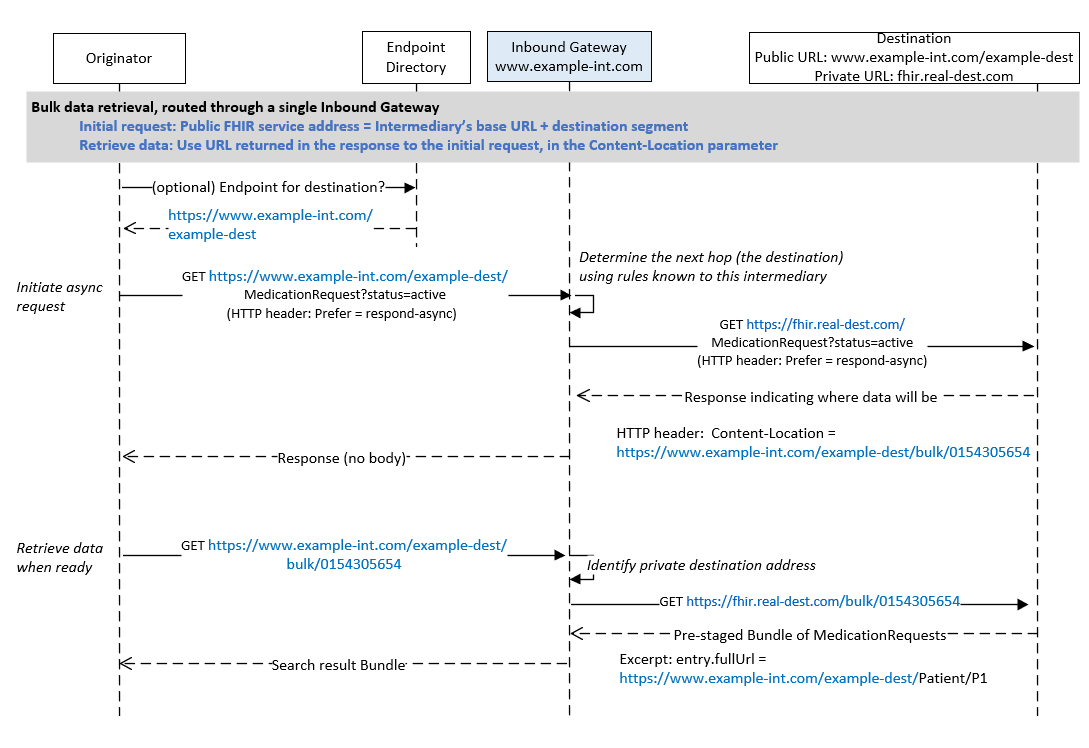
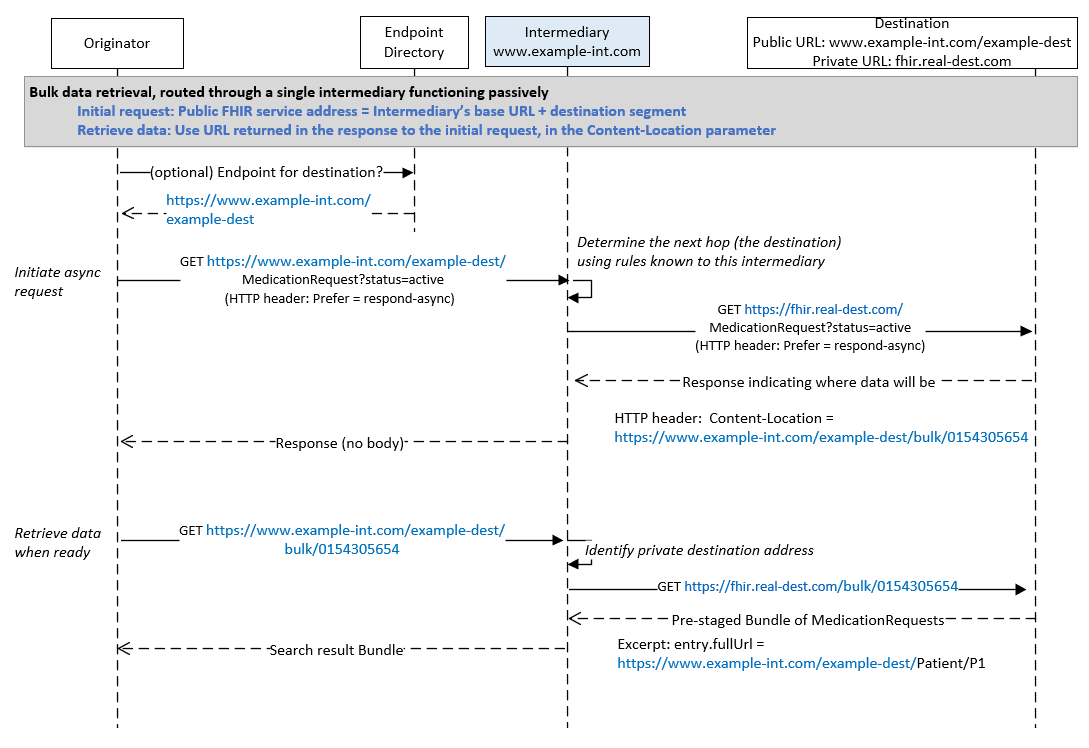
Narrative updates to all pages

Changed region(s): [[0.0, 0.0, 0.9991, 0.615], [0.0, 0.7072, 0.9679, 0.9225], [0.0937, 0.5842, 0.5308, 0.615]]

diff --git a/input/pages/specification.md b/input/pages/specification.md
@@ -4,13 +4,13 @@ This section further describes details of the scenarios introduced in the [Use C
 
 ### Assumptions: Partnership and setup between the originator and intermediaries
 
-This guide assumes that the destination and intermediary participants have established business arrangements and performed configuration activities prior to processing requests. These SHALL include the following, but MAY include the setup of additional value-add services performed by the intermediary participants.
+This guide assumes that the destination and intermediary participants have established business arrangements, if required, and performed configuration activities, if required, prior to processing requests. These SHALL include the following, but MAY include the setup of additional value-add services performed by the intermediary participants.
 
-- The Inbound Gateway intermediary SHALL agree to accept FHIR requests on the destination's behalf
-- The destination and Inbound Gateway intermediary SHALL establish the destination's public FHIR service base URL [(details below)](#destinations-public-fhir-service-base-url) according to their preferences
-- One or more additional delegated intermediaries MAY optionally agree to participate in the routing of requests between the Inbound Gateway intermediary and the destination
+- An intermediary, functioning as an inbound gateway, SHALL agree to accept FHIR requests on the destination's behalf
+- The destination and inbound gateway intermediary SHALL establish the destination's public FHIR service base URL [(details below)](#destinations-public-fhir-service-base-url) according to their preferences
+- One or more additional delegated intermediaries MAY optionally agree to participate in the routing of requests between the inbound gateway intermediary and the destination
 - Each participating intermediary SHALL configure its internal routing mechanisms to enable forwarding of requests to either the destination system or another participating intermediary, as prearranged among the parties. 
-  - Note: This guide does not prescribe particular routing logic or technical approaches to be used by an intermediary
+  - Note: This guide does not prescribe particular routing logic or technical approaches to be used by an intermediary to other intermediaries or the destination
 - One or more public endpoint directories MAY be configured to support searching for the destination and return of the destination's public FHIR service URL 
 
 <p></p>
@@ -21,18 +21,16 @@ This guide assumes that the destination and intermediary participants have estab
 
 To support the routing approaches described in this guide, the destination SHALL have a single, public FHIR service base URL for each FHIR service it makes available. 
 
-The partnering destination and Inbound Gateway intermediary are free to determine the appropriate structure of the public FHIR service base URL to meet their preferences and technical requirements. For example, the URL's hostname may refer to either the destination or the intermediary and path segments may be included to identify the destination, specify the supported FHIR version, etc. 
+The partnering destination and inbound gateway intermediary are free to determine the appropriate structure of the public FHIR service base URL to meet their preferences and technical requirements. For example, the URL's hostname may refer to either the destination or the intermediary and path segments may be included to identify the destination, specify the supported FHIR version, etc. In addition, the destination SHALL  [reference its public URL in returned FHIR resources](#references-to-the-service-base-url-in-returned-fhir-resources).
 
-<blockquote class="note-to-balloters">
-<p>
-Feedback requested: Is it helpful to include the following example approaches? Or would it be better to omit them--given that the guide does not prescribe a particular URL structure?</p>
-</blockquote>
+<p></p>
+
 
 Example approaches:
 
-- *Intermediary's base URL followed by a path indicating the destination,* such as `fhir.example-intermediary.com/example-destination`. In this method, the destination's public FHIR service URL consists of a base URL reflecting the Inbound Gateway Intermediary's identity followed by a path segment following the base that reflects the destination's identity. The intermediary may then base routing on the path segment that indicates the destination.
-- *Base URL that reflects the destination's identity,* such as`fhir.example-destination.com`. In this method, the destination uses a public FHIR service base URL that reflects its own identity and, in turn, hides participation of the Inbound Gateway Intermediary it employs. The intermediary bases routing on the network IP address at which it receives the request (the IP to which the public URL's DNS record is mapped).
-- *Subdomain of intermediary's URL that identifies the destination,* such as `example-destination.example-intermediary.com`. In this method, the destination is represented using a subdomain of the Inbound Gateway Intermediary's URL. The intermediary bases routing on the network IP address to which the subdomain's DNS record is mapped.
+- *Intermediary's base URL followed by a path indicating the destination,* such as `fhir.example-intermediary.com/example-destination`. In this method, the destination's public FHIR service URL consists of a base URL reflecting the inbound gateway Intermediary's identity followed by a path segment following the base that reflects the destination's identity. The intermediary may then base routing on the path segment that indicates the destination.
+- *Base URL that reflects the destination's identity,* such as`fhir.example-destination.com`. In this method, the destination uses a public FHIR service base URL that reflects its own identity and, in turn, hides participation of the inbound gateway Intermediary it employs. The intermediary bases routing on the network IP address at which it receives the request (the IP to which the public URL's DNS record is mapped).
+- *Subdomain of intermediary's URL that identifies the destination,* such as `example-destination.example-intermediary.com`. In this method, the destination is represented using a subdomain of the inbound gateway Intermediary's URL. The intermediary bases routing on the network IP address to which the subdomain's DNS record is mapped.
 
 This guide does not prescribe a particular URL structure to be used; however, it SHALL be a valid [FHIR service base URL](https://www.hl7.org/fhir/http.html#root) that originators can use without knowledge of its individual components--as they do any other FHIR service URL
 
@@ -51,7 +49,7 @@ This implementation guide does not support URL rewriting, based on stakeholder i
 
 #### FHIR service base URLs used in routing between intermediaries and to the actual destination server
 
-The destination and each delegated intermediary (participating in exchange hops following the Inbound Gateway intermediary) defines the URL at which it accepts requests intended for the destination.  Each party is free to determine the appropriate structure of the URL to meet its preferences and technical requirements, as described in the preceding section.
+The destination and each delegated intermediary (participating in exchange hops following the inbound gateway intermediary) defines the URL at which it accepts requests intended for the destination.  Each party is free to determine the appropriate structure of the URL to meet its preferences and technical requirements, as described in the preceding section.
 
 This guide does not prescribe a particular URL structure to be used; however, it SHALL: 
 
@@ -74,7 +72,7 @@ For example, the Bundle.entry.fullUrl element for a resource on the destination'
 
 #### The originating client negotiates trust with the destination
 
-In this exchange model, trust is negotiated solely between the originator and destination. It is the destination which makes the decision as to whether it trusts the originator or not; any intermediaries involved in the exchange play a passive, "pass through" role in the process. 
+In this exchange model, trust has been established or is negotiated solely between the originator and destination. It is the destination which makes the decision as to whether it trusts the originator or not; any intermediaries involved in the exchange play a passive, "pass through" role in the process. 
 
 Required behavior:
 
@@ -129,7 +127,7 @@ Based on the rules and constraints described above, the following underscores sc
 
 <p></p>
 
-#### Scenario: Request routed through a single Inbound Gateway intermediary 
+#### Scenario: Request routed through a single inbound gateway intermediary 
 
 This scenario supports a situation where the destination delegates the responsibility of securing a public endpoint--and potentially performing other functions such as registering clients--to an intermediary. A single intermediary participates in this exchange, forwarding requests directly from the originator to the destination.
 
@@ -143,7 +141,7 @@ Before the exchange, the originator system obtains the destination's public FHIR
 
 The originator system then initiates a RESTful exchange (for example, a GET method to retrieve a FHIR resource) that is transmitted to the destination's public FHIR service address. 
 
-**Step 3. The exchange is received by the Inbound Gateway intermediary**
+**Step 3. The exchange is received by the inbound gateway intermediary**
 
 The intermediary receives the request on behalf of the destination. The sections below describe multiple approaches for constructing the destination's public FHIR service address, but in all cases its URL resolves to a destination-specific location at the intermediary.
 
@@ -169,11 +167,6 @@ The originator accepts the response. If it wishes to submit a follow-on request 
 
 <p></p>
 
-<blockquote class="note-to-balloters">
-<p>
-DRAFT IG NOTE: Would it be helpful to include multiple examples using different URL approaches? Or is it better to include just one--given that the guide does not prescribe a particular URL structure?
-</p>
-</blockquote>
 
 
 **Exchange flow**
@@ -187,9 +180,9 @@ DRAFT IG NOTE: Would it be helpful to include multiple examples using different 
 </div>
 <p></p>
 
-#### Scenario: Destination uses an Inbound Gateway Intermediary that in turn routes through another intermediary to deliver the exchange
+#### Scenario: Destination uses an inbound gateway Intermediary that in turn routes through another intermediary to deliver the exchange
 
-This scenario supports a situation where one or more additional "delegated" intermediaries--beyond the Inbound Gateway with with the originator directly interacts--is used to deliver a request to its ultimate destination. 
+This scenario supports a situation where one or more additional "delegated" intermediaries--beyond the inbound gateway with with the originator directly interacts--is used to deliver a request to its ultimate destination. 
 
 Below is the main flow of this scenario.
 
@@ -197,11 +190,11 @@ Below is the main flow of this scenario.
 
 **Step 2. Originator initiates a RESTful interaction using the destination's public FHIR service address**
 
-**Step 3. The exchange is received by the Inbound Gateway intermediary**
+**Step 3. The exchange is received by the inbound gateway intermediary**
 
-The initial steps in this scenario are the same as in the one-intermediary scenario above--the originator submits its request to the public FHIR service address for the destination, which is received by the Inbound Gateway intermediary to be routed onward.
+The initial steps in this scenario are the same as in the one-intermediary scenario above--the originator submits its request to the public FHIR service address for the destination, which is received by the inbound gateway intermediary to be routed onward.
 
-**Step 4. The Inbound Gateway intermediary routes the exchange to a second intermediary**
+**Step 4. The inbound gateway intermediary routes the exchange to a second intermediary**
 
 The intermediary forwards the exchange to a second "delegated" intermediary who will forward it on toward the destination organization. 
 
@@ -211,7 +204,7 @@ This determination is based on arrangements previously established between this 
 
 **Step 5. The second intermediary routes the exchange to the destination endpoint**
 
-Based on routing metadata conveyed to it in the URL path or via HTTP headers, the second intermediary determines where to route the exchange based on its arrangement with the Inbound Gateway intermediary and/or the destination owner. 
+Based on routing metadata conveyed to it in the URL path or via HTTP headers, the second intermediary determines where to route the exchange based on its arrangement with the inbound gateway intermediary and/or the destination owner. 
 
 **Step 6. The destination processes the request and returns its response to the intermediary**
 
@@ -219,11 +212,11 @@ The destination processes the request and synchronously returns its response.
 
 Note that any references to the destination's FHIR service in resources that are returned by the destination--for example, in a search result Bundle's fullUrl element--SHALL be populated by the destination server to match the public FHIR service address used by the originator.
 
-**Step 7. The second intermediary passes through the response to the Inbound Gateway intermediary**
+**Step 7. The second intermediary passes through the response to the inbound gateway intermediary**
 
 The intermediary, which is holding a synchronous connection with the originator, passes through the response
 
-**Step 8. The Inbound Gateway intermediary passes through the response to the originator**
+**Step 8. The inbound gateway intermediary passes through the response to the originator**
 
 The intermediary, which is holding a synchronous connection with the originator, passes through the response. 
 
@@ -264,9 +257,9 @@ DRAFT IG NOTE: Would it be helpful to include multiple examples using different 
 
 <p></p>
 
-#### Scenario: Originator initiates an asynchronous retrieval of data from a Destination that uses an Inbound Gateway Intermediary
+#### Scenario: Originator initiates an asynchronous retrieval of data from a Destination that uses an inbound gateway Intermediary
 
-In this scenario, the originator uses the [FHIR Asynchronous Pattern](https://www.hl7.org/fhir/async.html) to retrieve data from a destination that uses an Inbound Gateway intermediary as described above. 
+In this scenario, the originator uses the [FHIR Asynchronous Pattern](https://www.hl7.org/fhir/async.html) to retrieve data from a destination that uses an inbound gateway intermediary as described above. 
 
 Below is the main flow of this scenario.
 
@@ -276,7 +269,7 @@ Below is the main flow of this scenario.
 
 In this scenario, the originator populates the `Prefer` HTTP header with `respond-async` to notify the destination that it want to obtain the response data asynchronously.
 
-**Step 3. The exchange is received by the Inbound Gateway intermediary**
+**Step 3. The exchange is received by the inbound gateway intermediary**
 
 **Step 4. The intermediary routes the exchange to the destination**
 

diff --git a/input/pages/use-cases.md b/input/pages/use-cases.md
@@ -1,15 +1,18 @@
-This guide supports scenarios where intermediaries take part in RESTful FHIR exchanges between an initiating system (the "originator") and the desired endpoint system (the "destination").  It focuses on scenarios where:
+This guide supports scenarios where intermediaries take part in RESTful FHIR exchanges between an initiating system (the "originator") and the desired endpoint system (the "destination").  
+
+Potential applications of this initial IG include use by implementers of payer/provider use cases such as Da Vinci value-based care use case in which intermediaries may bridge connectivity between actors. . Other HL7 accelerators (CARIN, Gravity, etc.) are developing disparate actor use cases in which intermediaries may be involved.
+
+Specifically, it focuses on scenarios where:
 
 - the originator directs the exchange to the destination's public FHIR service base URL, for example as retrieved from an endpoint directory
 
-  
 - but the destination has an arrangement where an intermediary accepts the request on the destination's behalf and then routes it to the destination's system -- either directly or through another intermediary.
 
 This page defines the roles that intermediaries play in the scenarios addressed in this guide and then describes those scenarios more fully.
 
 <p></p>
 
-### Intermediary Roles
+### Intermediary Capability Roles
 
 <table class="grid">
   <thead>
@@ -27,7 +30,7 @@ This page defines the roles that intermediaries play in the scenarios addressed 
     <tr>
       <td>Inbound  Gateway</td>
       <td>This intermediary role receives requests intended for the destination and  forwards them to the destination system or another intermediary</td>
-      <td>The Inbound Gateway assumes the responsibility of establishing transport security with submitters to the public URL and potentially performing other work on behalf of the destination</td>
+      <td>The inbound gateway assumes the responsibility of establishing transport security with submitters to the public URL and potentially performing other work on behalf of the destination such as cloud-scale infrastructure, technical support, business/operational onboarding and support, actor agnosticism, and attack protection such as denial of service.</td>
       <td>Public DNS entries are used to “point” the destination’s public URL to this intermediary
         </td>
     </tr>
@@ -43,17 +46,18 @@ This page defines the roles that intermediaries play in the scenarios addressed 
 
 
 
+
 <p></p>
 
 ### Scenario Overview
 
 While there are many potential exchange scenarios in which an intermediary could play a part, this guide focuses on a specific set where:
 
-- the exchange is a RESTful FHIR interaction
-- an intermediary plays the **Inbound Gateway** role described above, accepting requests from the originator
-- one or more additional intermediaries optionally play the **Delegated Function Intermediary** role described above, assisting in routing to the destination
+- the exchange is a RESTful FHIR interaction or complementary approach such as CDS hooks
+- an intermediary plays the **inbound gateway** role described above, accepting requests from the originator
+- one or more additional intermediaries optionally play the **delegated function Intermediary** role described above, assisting in routing to the destination
 - the originator directs its exchange to the intended destination's public FHIR service address, and the destination populates any elements referencing the destination server in returned FHIR resources (e.g., fullUrl) using its pubic FHIR service base URL
-- trust is negotiated between the originating client and the destination; any participating intermediaries play only a pass-through role in authentication and authorization
+- trust has been established or is negotiated between the originating client and the destination; any participating intermediaries play only a pass-through role in authentication and authorization
 - the originator may be unaware that an intermediary will play a role in routing the request, and has no additional responsibilities beyond those in a typical point-to-point FHIR exchange.
 
 <p></p>
@@ -89,10 +93,10 @@ In addition, this guide does not provide guidance for the use of [FHIR Messaging
 
 This guide assumes that the destination and intermediary participants have established business arrangements and performed the following configuration steps prior to processing requests:
 
-- The destination arranges for an Inbound Gateway intermediary to accept FHIR requests on its behalf
-- The destination and Inbound Gateway intermediary establish the destination's public FHIR service base URL. The parties determine the structure of the URL to meet their preferences and technical requirements. For example, the URL's hostname may refer to either the destination or the intermediary and path segments may be included to identify the destination, specify the supported FHIR version, etc.
+- The destination arranges for an inbound gateway intermediary to accept FHIR requests on its behalf
+- The destination and inbound gateway intermediary establish the destination's public FHIR service base URL. The parties determine the structure of the URL to meet their preferences and technical requirements. For example, the URL's hostname may refer to either the destination or the intermediary and path segments may be included to identify the destination, specify the supported FHIR version, etc.
   - This guide does not prescribe a particular URL structure to be used; it can be any valid [FHIR service base URL](https://www.hl7.org/fhir/http.html#root) that originators can use without knowledge of its individual components--as they do any other FHIR service URL
-- The intermediary or destination configures its public FHIR service base URL so that requests resolve to the Inbound Gateway intermediary
+- The intermediary or destination configures its public FHIR service base URL so that requests resolve to the inbound gateway intermediary
 - Participants share private server addresses as needed and pre-configure internal routing mechanisms to support forwarding through any delegated intermediaries and ultimately delivery to the destination system
   - This guide does not prescribe particular routing logic or technical approaches to be used by the intermediary
 - (Optional) One or more public endpoint directories are configured to support searching for the destination and return of the destination's public FHIR service URL 
@@ -102,10 +106,10 @@ This guide assumes that the destination and intermediary participants have estab
 Scenarios are separated into two groups below:
 
 - **synchronous** exchanges, in which participating intermediaries stay connected until the destination's response is forwarded to the originator
-  - Scenario: [Request routed through a single Inbound Gateway intermediary](#request-routed-through-a-single-inbound-gateway-intermediary)
-  - Scenario: [Destination uses an Inbound Gateway intermediary that, in turn routes to another intermediary to deliver the exchange](#destination-uses-an-inbound-gateway-intermediary-that-in-turn-routes-to-another-intermediary-to-deliver-the-exchange)
+  - Scenario: [Request routed through a single inbound gateway intermediary](#request-routed-through-a-single-inbound-gateway-intermediary)
+  - Scenario: [Destination uses an inbound gateway intermediary that, in turn routes to another intermediary to deliver the exchange](#destination-uses-an-inbound-gateway-intermediary-that-in-turn-routes-to-another-intermediary-to-deliver-the-exchange)
 - **asynchronous** exchanges that follow the [FHIR Asynchronous Request pattern](http://hl7.org/fhir/async.html), as used in the [Bulk Data Access IG](https://hl7.org/fhir/uv/bulkdata/index.html)
-  - Scenario: [Originator initiates an asynchronous retrieval of data from a Destination that uses an Inbound Gateway Intermediary](#originator-initiates-an-asynchronous-retrieval-of-data-from-a-destination-that-uses-an-inbound-gateway-intermediary)
+  - Scenario: [Originator initiates an asynchronous retrieval of data from a Destination that uses an inbound gateway Intermediary](#originator-initiates-an-asynchronous-retrieval-of-data-from-a-destination-that-uses-an-inbound-gateway-intermediary)
 
 <p></p>
 
@@ -113,13 +117,13 @@ Scenarios are separated into two groups below:
 
 <p></p>
 
-#### Request routed through a single Inbound Gateway intermediary 
+#### Request routed through a single inbound gateway intermediary 
 
 This scenario supports a situation where the destination delegates the responsibility of securing a public endpoint--and potentially performing other functions such as registering clients--to an intermediary. A single intermediary participates in this exchange, forwarding requests directly from the originator to the destination. The destination processes the request and synchronously returns its response.
 
 - The originator obtains the destination's public FHIR service base URL, for example from a FHIR endpoint directory
 - The originator initiates a RESTful interaction using the destination's public FHIR service base URL
-- The exchange is received by the Inbound Gateway intermediary
+- The exchange is received by the inbound gateway intermediary
 - The intermediary routes the exchange to the destination
 - The destination processes the request and returns its response to the intermediary, populating any references to the destination's FHIR server address using its public FHIR service base URL 
 - The intermediary passes through the response to the originator
@@ -129,7 +133,7 @@ This scenario supports a situation where the destination delegates the responsib
 
 <p></p>
 
-#### Destination uses an Inbound Gateway Intermediary that in turn routes to another intermediary to deliver the exchange
+#### Destination uses an inbound gateway Intermediary that in turn routes to another intermediary to deliver the exchange
 
 This scenario supports a situation where one or more intermediaries participate in delivering the exchange to the destination system. 
 
@@ -139,17 +143,17 @@ Steps
 
 - Originator initiates a RESTful interaction using the destination's public FHIR service address
 
-- The exchange is received by the Inbound Gateway intermediary
+- The exchange is received by the inbound gateway intermediary
 
-- The Inbound Gateway intermediary routes the exchange to a second intermediary. Based on its arrangement with the destination owner or other intermediary(ies), the Inbound Gateway intermediary determines that the exchange must be directed to a different intermediary for delivery to the endpoint used by the destination organization
+- The inbound gateway intermediary routes the exchange to a second intermediary. Based on its arrangement with the destination owner or other intermediary(ies), the inbound gateway intermediary determines that the exchange must be directed to a different intermediary for delivery to the endpoint used by the destination organization
 
 - The delegated intermediary routes the exchange to the destination endpoint. (Optionally, one or more intermediaries may also participate in the exchange prior to delivery to the destination)
 
 - The destination processes the request and returns its response to the last intermediary
 
-- The delegated intermediary passes through the response to the Inbound Gateway intermediary
+- The delegated intermediary passes through the response to the inbound gateway intermediary
 
-- The Inbound Gateway intermediary, which is holding a synchronous connection with the originator, passes through the response
+- The inbound gateway intermediary, which is holding a synchronous connection with the originator, passes through the response
 
 - The originator receives the response
 
@@ -159,9 +163,9 @@ Steps
 
 ### Asynchronous Scenario
 
-#### Originator initiates an asynchronous retrieval of data from a Destination that uses an Inbound Gateway Intermediary
+#### Originator initiates an asynchronous retrieval of data from a Destination that uses an inbound gateway Intermediary
 
-In this scenario, the originator uses the [FHIR Asynchronous Pattern](https://www.hl7.org/fhir/async.html) to retrieve data from a destination that uses an Inbound Gateway intermediary as described above. 
+In this scenario, the originator uses the [FHIR Asynchronous Pattern](https://www.hl7.org/fhir/async.html) to retrieve data from a destination that uses an inbound gateway intermediary as described above. 
 
 Steps
 
@@ -169,7 +173,7 @@ Steps
 
 - Originator initiates a RESTful interaction using the destination's public FHIR service address. In this scenario, the originator populates the `Prefer` HTTP header with `respond-async` to notify the destination that it want to obtain the response data asynchronously
 
-- The exchange is received by the Inbound Gateway intermediary
+- The exchange is received by the inbound gateway intermediary
 
 - The intermediary routes the exchange to the destination. The `Prefer: respond-async` header is also forwarded to the destination
 

diff --git a/input/pages/index.md b/input/pages/index.md
@@ -1,6 +1,6 @@
 <blockquote class="note-to-balloters">
 <p>
-This specification is a proposed Standard for Trial Use. It is expected to continue to evolve and improve through connectathon testing and feedback from early adopters. 
+This specification is a proposed Standard for Trial Use. It is expected to continue to evolve and improve through connectathon testing, feedback from early adopters, and continued industry development and alignment. 
 </p>
 <p>
 Until balloting begins, feedback is welcome and may be submitted through the <a href="https://chat.fhir.org/#narrow/stream/264775-FHIR-at.20Scale.20.28FAST.29.3A.20Exchange.20with.2Fwithout.20intermediaries">FHIR at Scale (FAST): Exchange with/without intermediaries Zulip stream</a>.
@@ -10,15 +10,18 @@ Until balloting begins, feedback is welcome and may be submitted through the <a 
 
 
 
+
 <p></p>
 
 ### Overview
 
-This implementation guide provides guidance for enabling FHIR REST interactions across one or more "passive" intermediaries, as an alternative to FHIR Messaging exchange.
+This implementation guide provides guidance for enabling FHIR REST interactions across one or more intermediaries using a passive approach. A passive approach is one in which the intermediary is ‘passing through’ the interaction and the requesting actor is not necessarily aware of the presence of the intermediary. Intermediaries in this context are organizations such as clearinghouses, health information exchanges, and similar entities.  We recognize that there are ‘active’ intermediary use cases (TEF QHIN, aggregation services, record locator, etc.) which will be handled in future IGs.
 
-It supports exchanges where the client and destination FHIR server interact with the same steps, content and responsibilities as in a direct connection--while enabling the destination to "sit behind" an intermediary that can provide services such as firewall protection.
+It supports exchanges where the client and destination FHIR server interact with the same steps, content and responsibilities as in a direct connection--while enabling the destination to "sit behind" an intermediary that can provide value-add services such as cloud-scale technical infrastructure, support services, denial of service protection, and business/operational onboarding.
 
-Potential applications of the IG include use by implementers of payer/provider use cases such as Da Vinci Prior Authorization Support.
+Potential applications of this initial IG include use by implementers of payer/provider use cases such as Da Vinci value-based care use case in which intermediaries may bridge connectivity between actors. . Other HL7 accelerators (CARIN, Gravity, etc.) are developing disparate actor use cases in which intermediaries may be involved.
+
+The community recognizes that direct point to point RESTful interaction is a primary interaction pattern. However, we also recognize that intermediaries play important roles for some healthcare actors and having a set of best practices so that we don’t put additional burdens on the client actors is key to running FHIR at scale. This is called the ‘hybrid’ model approach and this IG documents a set of best practices to enable connectivity both in point to point and intermediary facilitated exchange without the client actor needing to have knowledge of what model is executing.
 
 <p></p>
 
@@ -40,23 +43,23 @@ The implementation guide focuses on exchanges where...
 
 - the originator directs the exchange to the destination's public FHIR service base URL, for example as retrieved from an endpoint directory
 - an intermediary accepts the request on the destination's behalf and then routes it--directly or through another intermediary--to the destination's system
-- the originator and destination negotiate trust, with participating intermediaries passively conveying resulting tokens or other security artifacts
+- the originator and destination have established trust, with participating intermediaries passively conveying resulting tokens or other security artifacts
 
 The guide aims to support all RESTful FHIR interaction types (GET, POST, etc.) within this set of scenarios.
 
-This implementation guide is intended be used in the United States.
+This implementation guide was initially created for US Realm but is certainly open to use anywhere it provides value.
 
 <p></p>
 
 **Out of scope of this version of the guide**
 
-The guide does not address all intermediary exchange scenarios that exist today, and does not aim to support emerging network needs such as those posed by the Trusted Exchange Framework and Common Agreement (TEFCA). 
+The guide does not address all intermediary exchange scenarios that exist today, and does not aim to support emerging network needs such as those posed by the Trusted Exchange Framework and Common Agreement (TEFCA). Environments and use cases supported by active intermediaries are recognized as valid, but are not the focus of the initial version of this guide.
 
 Excluded from scope are environments or scenarios where:
 
 - trust is not negotiated between the originating client and the destination. For example, scenarios where the client establishes trust with an intermediary instead of the destination are not supported
 - the originating client addresses requests to anything but the destination’s public URL (for example, instead submitting to a different, network-assigned URL representing the destination)
-- the destination does not respond using its pubic FHIR service base URL in elements that reference the destination's server within returned FHIR resources (for example, populating elements such as fullUrl with a non-public system URL)
+- the destination does not respond using its pubic FHIR service base URL in elements that reference the destination's server within returned FHIR resources (for example, populating elements such as fullUrl with a non-public system URL which would require URL rewriting)
 - one or more intermediaries rewrite URLs representing the destination server in returned FHIR resources.
 
 In addition, this guide does not provide guidance for the use of [FHIR Messaging](https://www.hl7.org/fhir/messaging.html), which also includes routing features that can be used to exchange message content through intermediaries.
@@ -179,6 +182,10 @@ The guide is organized into the following sections:
         <tr>
 		<td>November 17, 2021 6ET</td>
 		<td>Additional adjustments to Home page and Use Case page based on ITS WG review</td>
+  	  </tr>
+        <tr>
+		<td>November 21, 2021</td>
+		<td>Updates to the narrative in the Home, Use Cases and Roles, Specification, Exception Handling and Security pages.</td>
   	  </tr>
    </tbody>
   </table>

diff --git a/input/pages/security.md b/input/pages/security.md
@@ -9,7 +9,7 @@ All exchanges in the exchange SHALL use Transport Layer Security (TLS).
 
 ### Trust Determination
 
-In this exchange model, trust is negotiated solely between the originator and destination. The destination SHALL determine whether it trusts the originator or not; any intermediaries involved in the exchange SHALL play a passive, "pass through" role in the process.
+In this exchange model, trust is negotiated or established solely between the originator and destination. The destination SHALL determine whether it trusts the originator or not; any intermediaries involved in the exchange SHALL play a passive, "pass through" role in the process.
 
 Required behavior:
 

diff --git a/input/pages/exceptions.md b/input/pages/exceptions.md
@@ -20,7 +20,7 @@ Exception HTTP status codes generated by the destination are passed through unch
 
 #### Intermediary-reported exceptions
 
-When an intermediary experiences an exception, it:
+When an intermediary experiences an exception (including no HTTP response from a downstream actor) it:
 
 - Stops the process of routing the request 
 - Returns the associated HTTP status code
